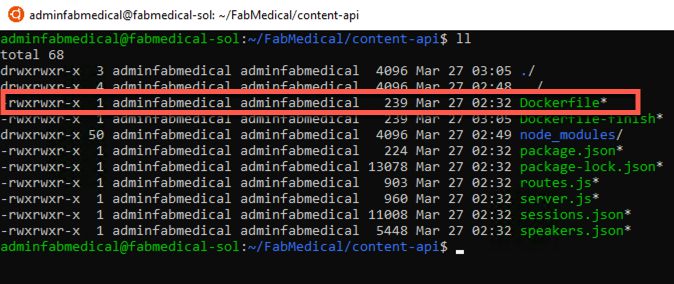
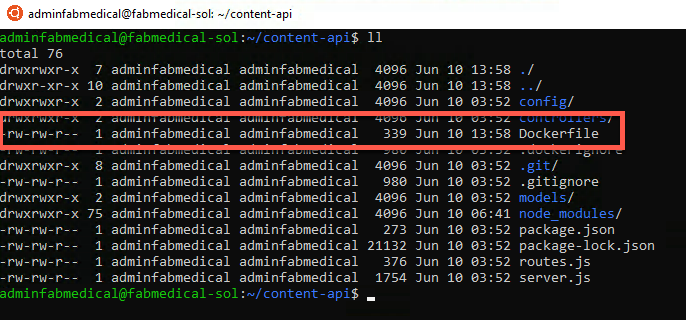
Task 3

diff --git a/Hands-on lab step-by-step - Containers and DevOps.md b/Hands-on lab step-by-step - Containers and DevOps.md
@@ -332,79 +332,102 @@ In this task, you will create a new Dockerfile that will be used to run the API 
 
 **NOTE: You will be working in a Linux VM without friendly editor tools. You must follow the steps very carefully to work with Vim for a few editing exercises if you are not already familiar with Vim.**
 
-1.  From WSL, navigate to the content-api folder. List the files in the folder with this command. The output should look like the screenshot below.
-    ```
-    cd ..
+1. From WSL, navigate to the content-api folder. List the files in the folder with this command. The output should look like the screenshot below.
 
-    cd content-api
-
+    ```bash
+    cd ../content-api
     ll
     ```
 
     ![In this screenshot of the WSL window, ll has been typed and run at the command prompt. The files in the folder are listed in the window. At this time, we are unable to capture all of the information in the window. Future versions of this course should address this.](images/Hands-onlabstep-by-step-ContainersandDevOpsimages/media/image55.png)
 
-2.  Create a new file named "Dockerfile" and note the casing in the name. Use the following Vim command to create a new file. The WSL window should look as shown in the following screenshot.
-    ```
+1. Create a new file named "Dockerfile" and note the casing in the name. Use the following Vim command to create a new file. The WSL window should look as shown in the following screenshot.
+
+    ```bash
     vi Dockerfile
     ```
 
     ![This is a screenshot of a new file named Dockerfile in the WSL window.](images/Hands-onlabstep-by-step-ContainersandDevOpsimages/media/image56.png)
 
-3.  Select "i" on your keyboard. You'll see the bottom of the window showing INSERT mode.
+1. Select "i" on your keyboard. You'll see the bottom of the window showing INSERT mode.
 
     ![\-- INSERT -- appears at the bottom of the Dockerfile window.](images/Hands-onlabstep-by-step-ContainersandDevOpsimages/media/image57.png)
 
-4.  Type the following into the file. These statements produce a Dockerfile that describes the following:
+1. Type the following into the file. These statements produce a Dockerfile that describes the following:
 
-    -   Creates a new Docker image from the base image node:argon. This base image has node.js on it and is compatible with the Ubuntu distribution of Linux you are deploying to.
+    - The base stage includes environment setup which we expect to change very rarely, if at all.
 
-    -   Creates a directory on the image where the application files can be copied.
+        - Creates a new Docker image from the base image node:alpine. This base image has node.js on it and is optimized fro small size.
 
-    -   Copies the source files for the application over to the image.
+        - Add `curl` to the base image to support Docker health checks.
 
-    -   Runs npm install to initialize the node application environment.
+        - Creates a directory on the image where the application files can be copied.
 
-    -   Exposes application port 3001 to the container environment so that the application can be reached at port 3001.
+        - Exposes application port 3001 to the container environment so that the application can be reached at port 3001.
 
-    -   Indicates the command to start the node application when the container is run.
+    - The build stage contains all the tools and intermediate files needed to create the application.
 
-**NOTE: Type the following into the editor, as you may have errors with copying and pasting.**
-```
-FROM node:argon
+        - Creates a new Docker image from node:argon
 
-RUN mkdir -p /usr/src/app
+        - Creates a directory on the image where the application files can be copied.
 
-WORKDIR /usr/src/app
+        - Copies package.json to the working directory.
 
-COPY package.json /usr/src/app/
+        - Runs npm install to initialize the node application environment.
 
-RUN npm install
+        - Copies the source files for the application over to the image.
 
-COPY . /usr/src/app
+    - The final stage combines the base image with the build output from the build stage
 
-EXPOSE 3001
+        - Sets the working directory to the application file location.
 
-CMD [ "npm", "start" ]
-```
+        - Copies the app files from the build stage
 
-5.  When you are finished typing, hit the Esc key and type ":wq" and hit the Enter key to save the changes and close the file.
+        - Indicates the command to start the node application when the container is run.
+
+    **NOTE: Type the following into the editor, as you may have errors with copying and pasting.**
+
+    ```Dockerfile
+    FROM node:alpine AS base
+    RUN apk -U add curl
+    WORKDIR /usr/src/app
+    EXPOSE 3001
+
+    FROM node:argon AS build
+    WORKDIR /usr/src/app
+
+    # Install app dependencies
+    COPY package.json /usr/src/app/
+    RUN npm install
+
+    # Bundle app source
+    COPY . /usr/src/app
+
+    FROM base AS final
+    WORKDIR /usr/src/app
+    COPY --from=build /usr/src/app .
+    CMD [ "npm", "start" ]
     ```
+
+1. When you are finished typing, hit the Esc key and type ":wq" and hit the Enter key to save the changes and close the file.
+
+    ```bash
     <Esc>
-
     :wq
-
     <Enter>
     ```
 
-6.  List the contents of the folder again, to verify the new Dockerfile has been created.
-    ```
+1. List the contents of the folder again, to verify the new Dockerfile has been created.
+
+    ```bash
     ll
     ```
 
     ![In this screenshot of the WSL window, ll has been typed and run at the command prompt. The Dockerfile file is highlighted at the top of list.](images/Hands-onlabstep-by-step-ContainersandDevOpsimages/media/image58.png)
 
-7.  Verify the file contents, to ensure it was saved as expected. Type the following command to see the output of the Dockerfile in the command window.
-    ```
+1. Verify the file contents, to ensure it was saved as expected. Type the following command to see the output of the Dockerfile in the command window.
+
+    ```bash
     cat Dockerfile
     ```
 
